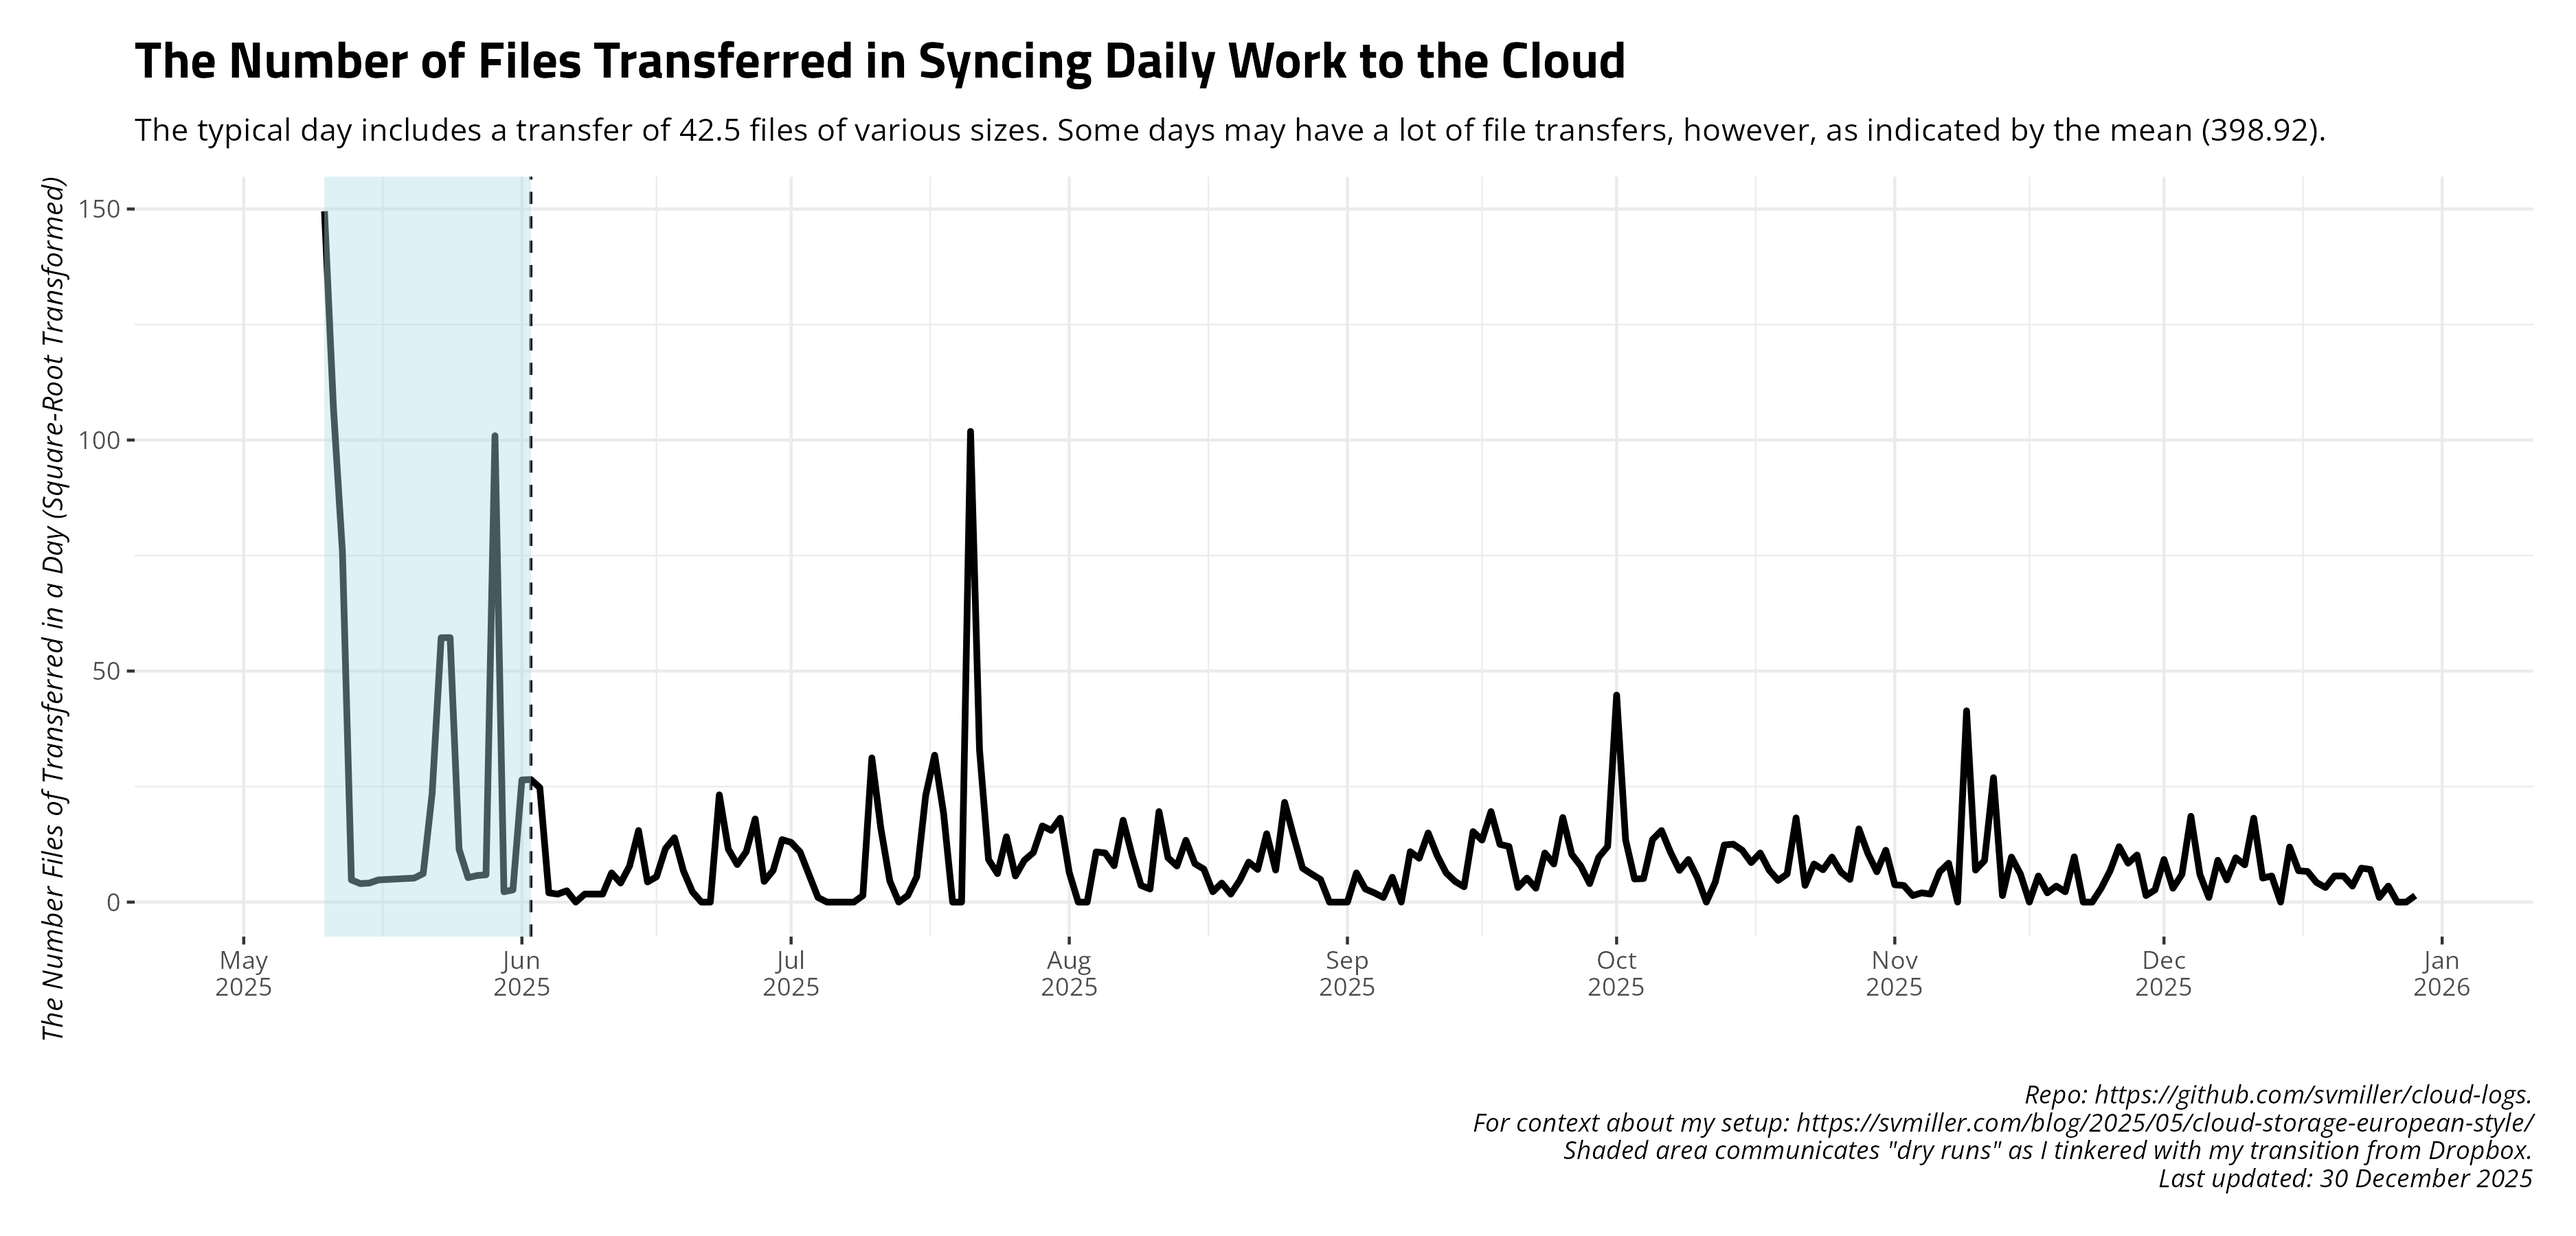
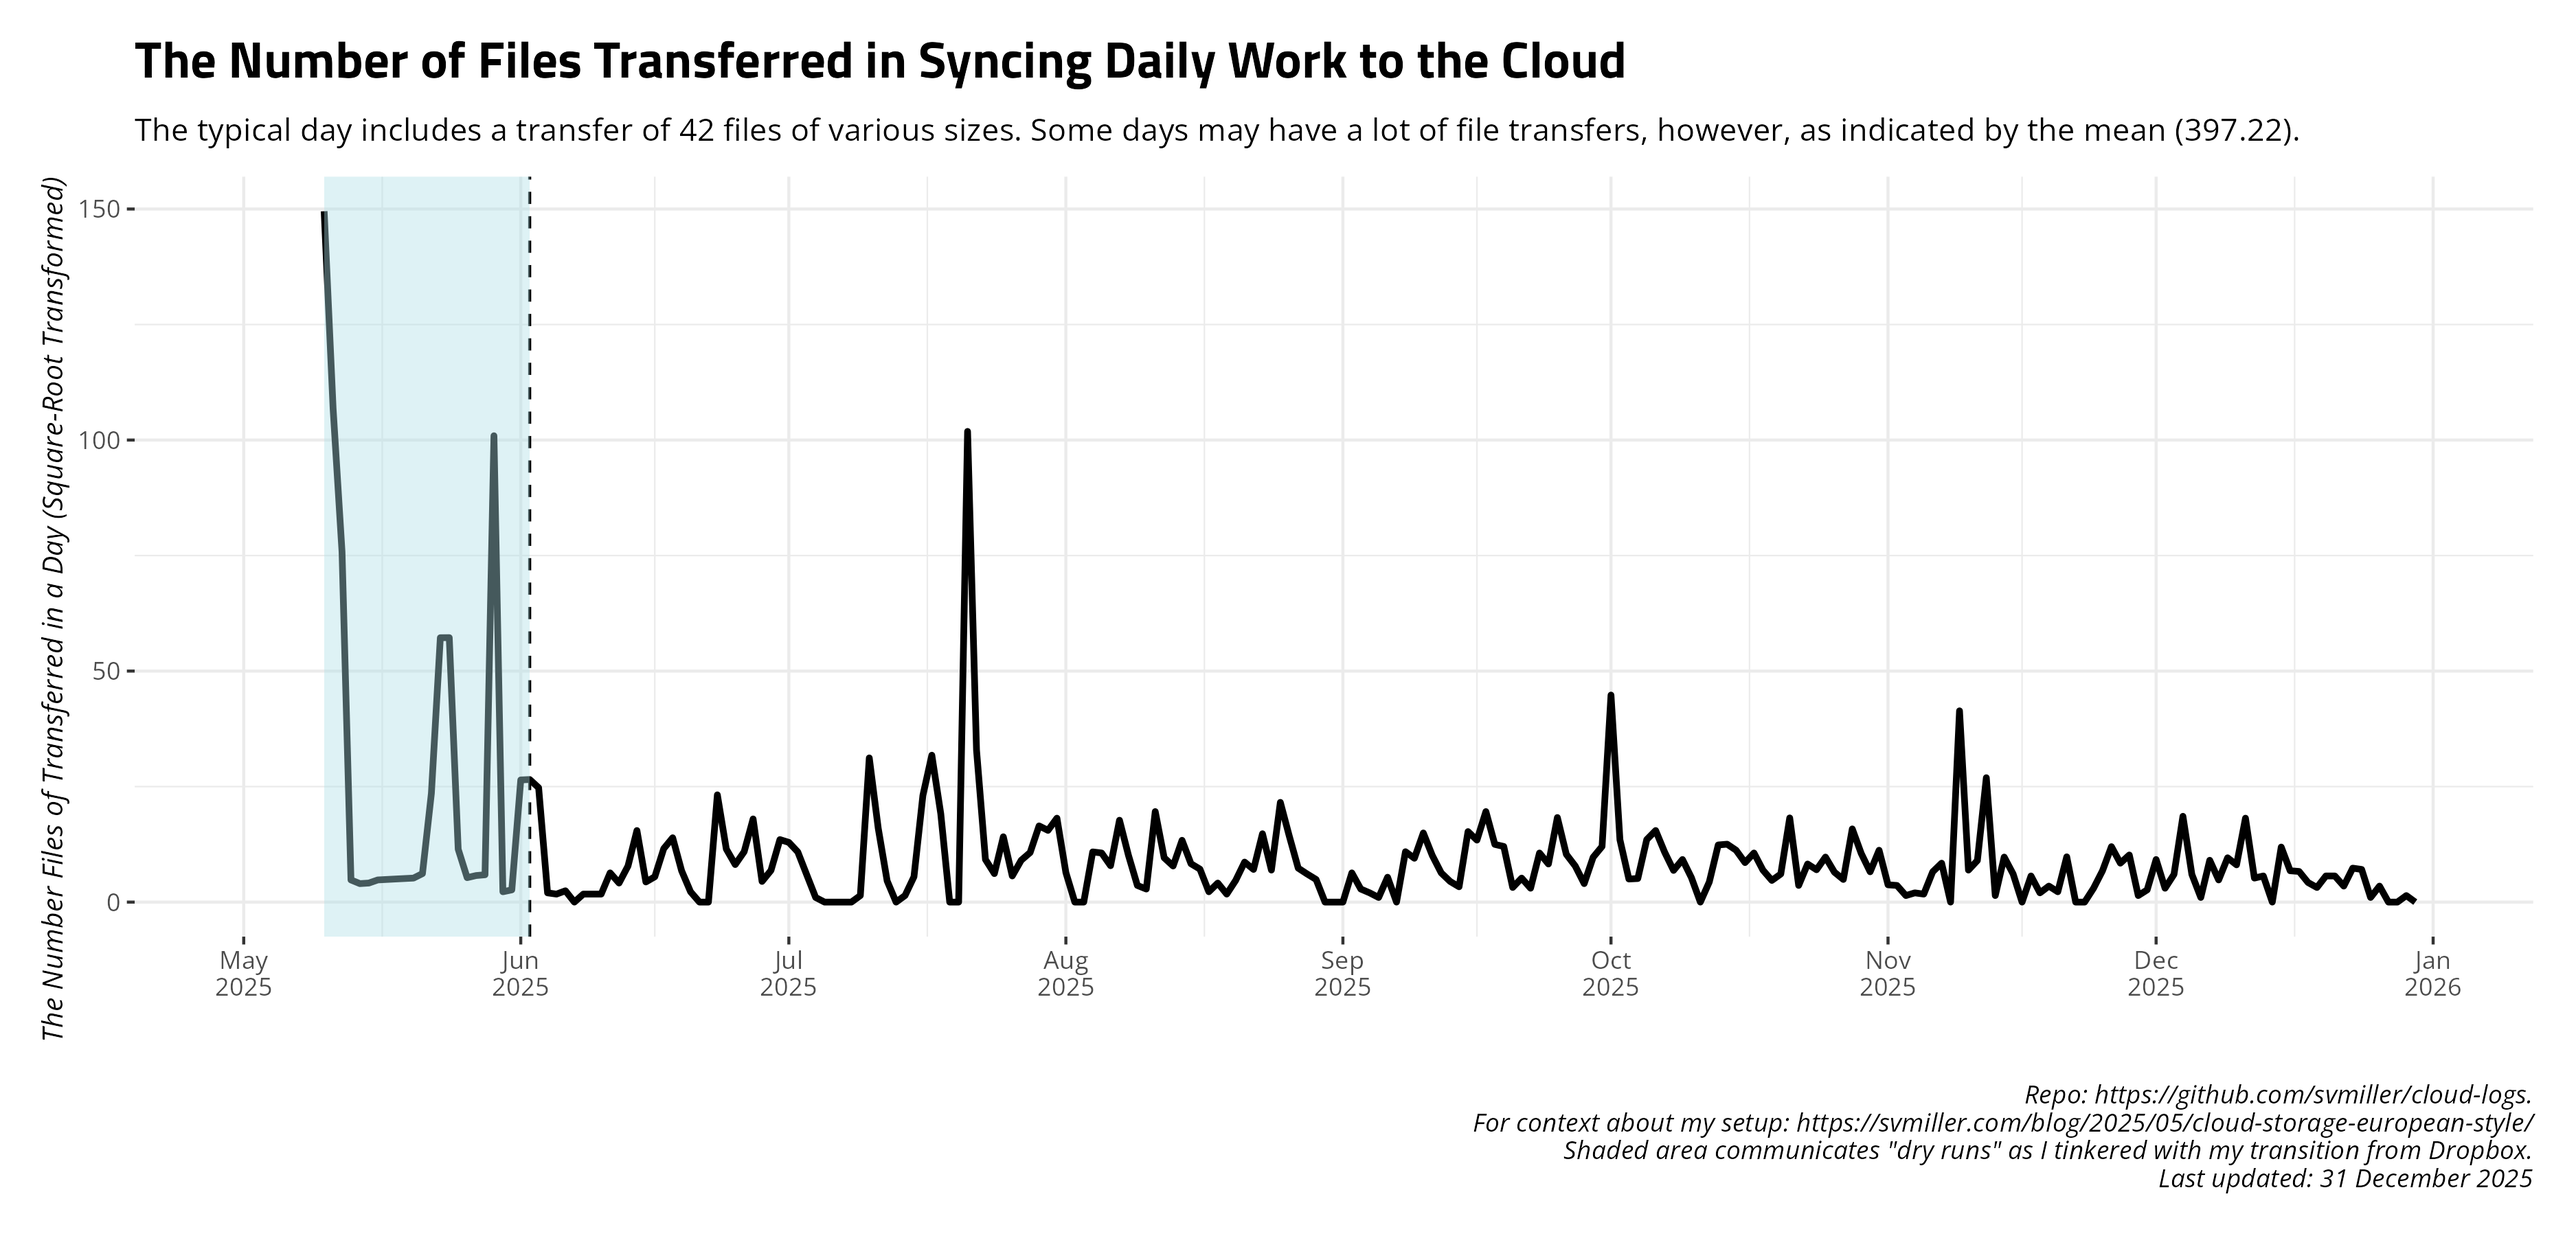
Date: 2025-12-31 09:00:19. Hi mom!

diff --git a/README.md b/README.md
@@ -27,17 +27,17 @@ and uploads to Github.
     #> # A tibble: 14 × 4
     #>    date       ftransfer stransfer   elapsed
     #>    <date>         <dbl> <chr>       <chr>  
-    #>  1 2025-12-16        46 44.976 MiB  5m42.0s
-    #>  2 2025-12-17        44 26.853 MiB  5m28.3s
-    #>  3 2025-12-18        18 2.161 MiB   5m16.1s
-    #>  4 2025-12-19        10 2.981 MiB   5m34.2s
-    #>  5 2025-12-20        32 42.314 MiB  4m42.6s
-    #>  6 2025-12-21        32 35.283 MiB  5m35.8s
-    #>  7 2025-12-22        12 50.685 KiB  5m38.1s
-    #>  8 2025-12-23        54 241.235 KiB 7m42.6s
-    #>  9 2025-12-24        50 103.702 KiB 5m3.9s 
-    #> 10 2025-12-25         1 52.710 KiB  5m51.5s
-    #> 11 2025-12-26        12 50.808 KiB  5m20.9s
-    #> 12 2025-12-27         0 <NA>        5m45.8s
-    #> 13 2025-12-28         0 <NA>        5m45.5s
-    #> 14 2025-12-29         2 380.681 KiB 5m47.9s
+    #>  1 2025-12-17        44 26.853 MiB  5m28.3s
+    #>  2 2025-12-18        18 2.161 MiB   5m16.1s
+    #>  3 2025-12-19        10 2.981 MiB   5m34.2s
+    #>  4 2025-12-20        32 42.314 MiB  4m42.6s
+    #>  5 2025-12-21        32 35.283 MiB  5m35.8s
+    #>  6 2025-12-22        12 50.685 KiB  5m38.1s
+    #>  7 2025-12-23        54 241.235 KiB 7m42.6s
+    #>  8 2025-12-24        50 103.702 KiB 5m3.9s 
+    #>  9 2025-12-25         1 52.710 KiB  5m51.5s
+    #> 10 2025-12-26        12 50.808 KiB  5m20.9s
+    #> 11 2025-12-27         0 <NA>        5m45.8s
+    #> 12 2025-12-28         0 <NA>        5m45.5s
+    #> 13 2025-12-29         2 380.681 KiB 5m47.9s
+    #> 14 2025-12-30         0 <NA>        5m48.6s
